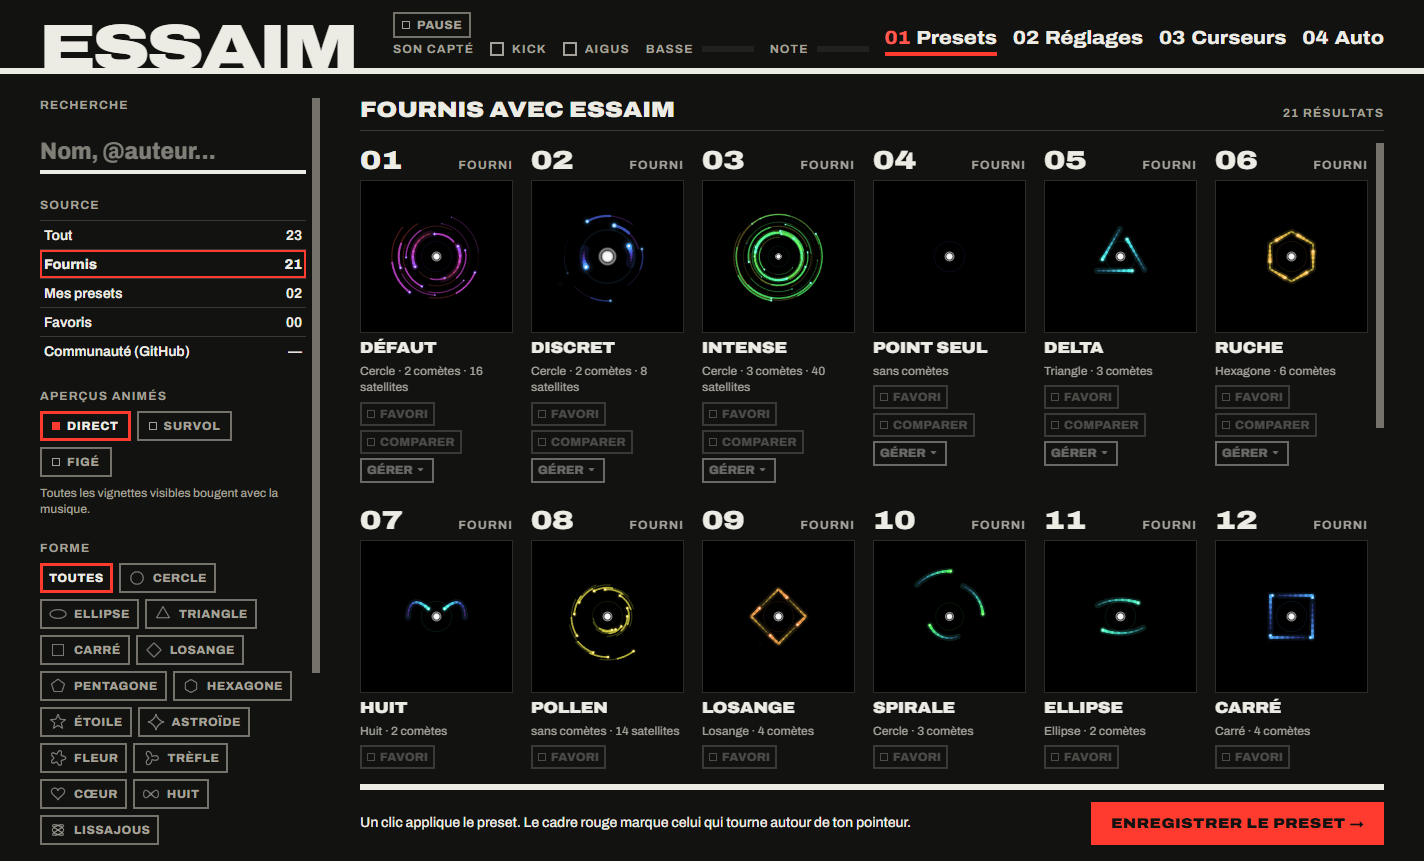
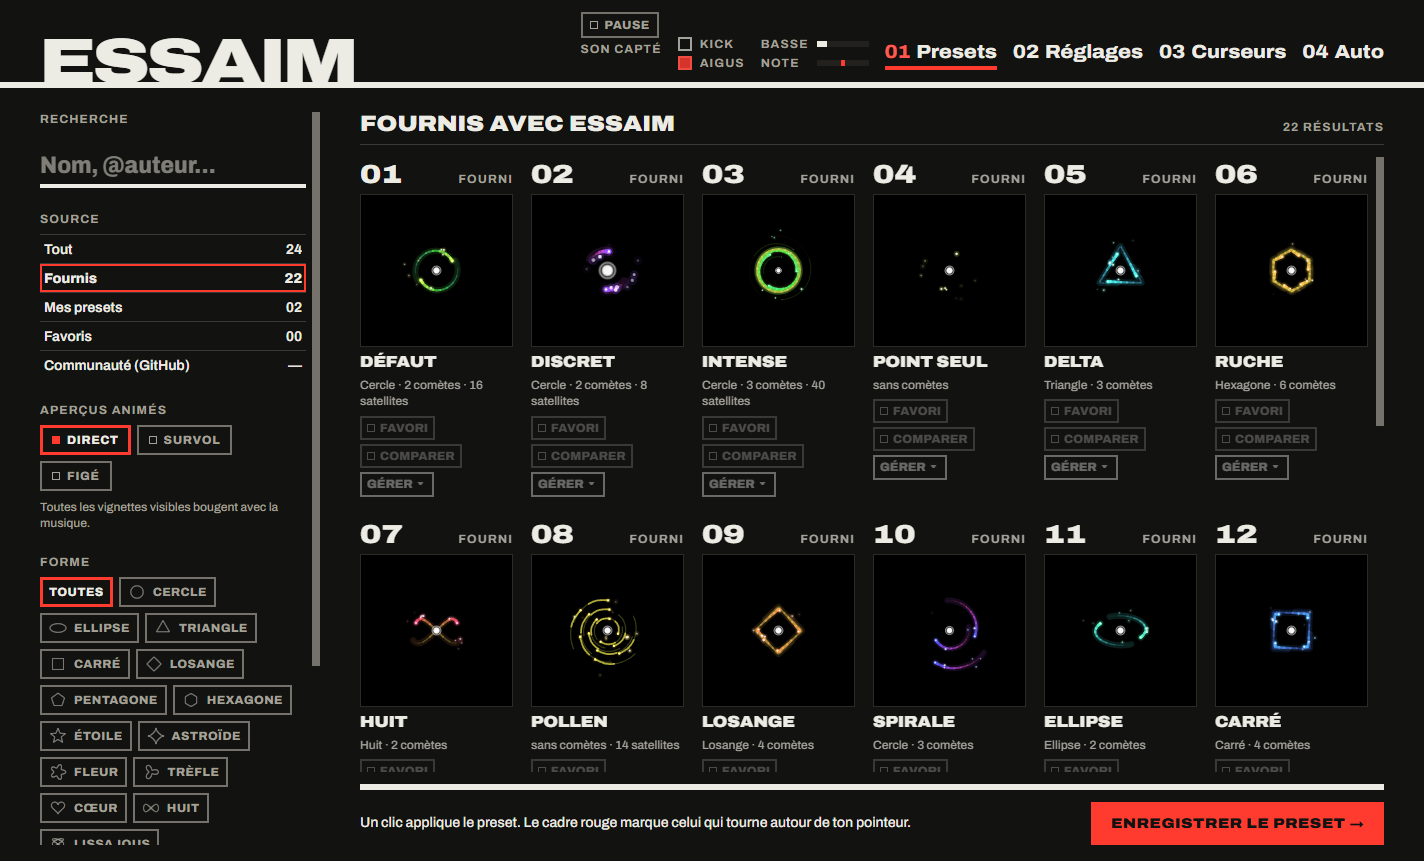
Docs : modulations, sous-onglets des réglages, captures refaites
Claude-Session: https://claude.ai/code/session_012AUsZooZ3YvAUNHYm4s6z2

diff --git a/README.md b/README.md
@@ -35,9 +35,10 @@ cymbales font jaillir des étincelles, et au drop, tout explose.
   dessine seulement autour, dans un calque transparent aux clics.
 - **Léger.** Dessiné par la carte graphique : 0,31 ms de calcul par image au banc d'essai, environ
   3 % d'un cœur du processeur en usage. Il s'endort quand un jeu ou une vidéo passe en plein écran.
-- **À ta façon.** 14 formes de trajet ou le tien, dessiné à la main ; 21 presets fournis, animés en
-  direct ; des règles « si l'artiste est… alors tel preset » ; chaque réglage appliqué tout de
-  suite, avec son coût affiché.
+- **À ta façon.** 14 formes de trajet ou le tien, dessiné à la main ; 22 presets fournis, animés en
+  direct ; des modulations pour brancher n'importe quel élément du son sur la rotation, la vitesse,
+  le rayon, la taille ou la teinte ; des règles « si l'artiste est… alors tel preset » ; chaque
+  réglage appliqué tout de suite, avec son coût affiché.
 
 ## Fonctions
 
@@ -76,12 +77,13 @@ dans OBS ; elle suit ta musique comme l'essaim du pointeur.</td>
 | | |
 |---|---|
 | 🥁 **Kick** | Inverse le sens de rotation, ajoute des satellites, éclat sous le pointeur |
-| 🔊 **Basse** | Accélère la rotation ; plus la note est grave, plus les orbites s'éloignent |
+| 🔊 **Basse** | Accélère la rotation ; plus la note est grave, plus les orbites s'éloignent (deux modulations de base, à régler ou retirer) |
 | ✨ **Aigus** | Charleston et cymbales font jaillir des étincelles |
 | 🟦 **Caisse claire** | Un carré lumineux s'ouvre sous le pointeur sur chaque caisse claire ou clap |
 | 🚀 **Montée et drop** | L'essaim se resserre et accélère pendant la montée, puis explose au drop |
 | ⏱ **Tempo** | L'essaim continue de pulser pendant les breaks sans grosse caisse ; en option, les têtes pulsent sur les contretemps |
 | 🎧 **Stéréo** | En option, l'essaim penche vers le côté qui joue le plus fort |
+| 🎛 **Modulations** | Branche un élément du son (basse, note grave ou aiguë, kick, caisse claire, charleston, montée, drop, stéréo, tempo) sur la rotation du trajet, la vitesse, le rayon, la taille ou la teinte, des comètes, des satellites ou des deux : le trajet qui s'emballe au drop, l'orbite qui s'ouvre sur les graves… |
 | 🎵 **Morceau en cours** | Couleur de la pochette, rafale au changement de piste, titre dans l'infobulle et les réglages |
 
 ### La souris et l'écran
@@ -114,20 +116,22 @@ Toutes les fonctions en détail : [docs/guide.md](docs/guide.md).
 
 ## La fenêtre des réglages
 
-**Les presets.** Une grille de 21 presets fournis (un par forme, et quelques autres), chacun animé
+**Les presets.** Une grille de 22 presets fournis (un par forme, et quelques autres), chacun animé
 en direct avec ta musique : un clic l'applique. Enregistre les tiens, compare-en deux côte à côte,
 filtre par forme.
 
-<img src="docs/images/presets.png" alt="Onglet Presets : les 21 presets fournis, animés" width="100%">
+<img src="docs/images/presets.png" alt="Onglet Presets : les 22 presets fournis, animés" width="100%">
 
 <table>
 <tr>
-<td width="50%" valign="top"><img src="docs/images/reglages.png" alt="Onglet Réglages : aperçu en grand, formes, glissières"></td>
+<td width="50%" valign="top"><img src="docs/images/reglages.png" alt="Onglet Réglages : aperçu en grand, un sous-onglet par effet, ici les modulations"></td>
 <td width="50%" valign="top"><img src="docs/images/curseurs.png" alt="Onglet Curseurs : jeux de curseurs installés"></td>
 </tr>
 <tr>
-<td valign="top"><b>Réglages</b> appliqués en direct sur un grand aperçu. À côté de chacun, une
-note de 1 à 10 dit ce qu'il coûte en puissance ; la puissance utilisée est mesurée en direct.</td>
+<td valign="top"><b>Réglages</b> rangés par effet (orbite, comètes, satellites, couleur, son,
+musique, souris, fissures, bordure, spectre, modulations), chacun avec ses options de base et
+avancées, appliqués en direct sur un grand aperçu. À côté de chacun, dix cases disent ce qu'il
+coûte en puissance ; la puissance utilisée est mesurée en direct.</td>
 <td valign="top"><b>Curseurs</b> : tes jeux de curseurs Windows, animés, mis en place d'un clic.
 Un preset peut emporter le sien.</td>
 </tr>
@@ -143,7 +147,7 @@ l'heure, et les raccourcis clavier.
 installer, pas de droits administrateur : la fenêtre des réglages s'ouvre au premier lancement.
 
 - Range d'abord le fichier là où il restera (par exemple `%LOCALAPPDATA%\Programs\Essaim`),
-  puis coche *Démarrer Essaim avec Windows* dans les réglages avancés.
+  puis coche *Démarrer Essaim avec Windows* dans *Réglages › Cet ordinateur*.
 - Windows peut afficher « Windows a protégé votre ordinateur » : l'exécutable n'est pas signé.
   *Informations complémentaires* → *Exécuter quand même*.
 - Le curseur **Dotter** est à côté : `curseur-Dotter.zip` (voir l'étape 3 plus bas).
@@ -202,14 +206,14 @@ se connecte qu'à GitHub, pour la bibliothèque de presets et les mises à jour.
 <summary><b>L'essaim ne réagit pas au son.</b></summary>
 
 Essaim écoute la sortie audio *par défaut* de Windows. Si ta musique passe par une autre sortie,
-choisis-la dans *Réglages › Avancé › Son › Sortie son écoutée*. L'en-tête de la fenêtre des réglages montre ce qu'Essaim entend (kick, aigus,
+choisis-la dans *Réglages › Kick et son › Avancé › Sortie son écoutée*. L'en-tête de la fenêtre des réglages montre ce qu'Essaim entend (kick, aigus,
 basse, note).
 </details>
 
 <details>
 <summary><b>Les éclats me gênent (photosensibilité).</b></summary>
 
-*Réglages › Avancé › Sans flashs* : *Toujours*. Les éclats du kick sont adoucis et limités à trois
+*Réglages › Cet ordinateur › Sans flashs* : *Toujours*. Les éclats du kick sont adoucis et limités à trois
 par seconde, sans halo blanc, et la bordure de la fenêtre ne clignote plus. Par défaut (*Comme
 Windows*), ce mode s'active tout seul quand les effets d'animation sont coupés dans Windows
 (*Accessibilité › Effets visuels*).
@@ -219,7 +223,7 @@ Windows*), ce mode s'active tout seul quand les effets d'animation sont coupés 
 <summary><b>Comment montrer l'essaim dans OBS ?</b></summary>
 
 Icône d'Essaim → *Fenêtre pour le stream* (ou `essaim.exe --stream`). L'essaim y danse au centre,
-sur un fond uni (vert par défaut, au choix dans les réglages avancés). Dans OBS : *Capture de
+sur un fond uni (vert par défaut, au choix dans *Réglages › Cet ordinateur*). Dans OBS : *Capture de
 fenêtre* sur « Essaim — stream », puis un filtre *Incrustation chromatique* pour retirer le fond.
 Elle reste capturable même si l'essaim autour du pointeur est masqué des captures.
 </details>

diff --git a/README.en.md b/README.en.md
@@ -37,9 +37,9 @@ throw sparks, and on the drop, everything bursts.
   around it, in a click-through layer.
 - **Light.** Drawn by the GPU: 0.31 ms per frame on the benchmark, about 3% of one CPU core in
   use. It goes to sleep when a game or video goes fullscreen.
-- **Your way.** 14 path shapes, or your own drawn by hand; 21 bundled presets, animated live;
-  "if the artist is… then this preset" rules; every setting applied instantly, with its cost
-  shown.
+- **Your way.** 14 path shapes, or your own drawn by hand; 22 bundled presets, animated live;
+  modulations to wire any part of the sound to the rotation, speed, radius, size or hue; "if the
+  artist is… then this preset" rules; every setting applied instantly, with its cost shown.
 
 ## Features
 
@@ -77,12 +77,13 @@ in OBS; it follows your music like the swarm around the pointer.</td>
 | | |
 |---|---|
 | 🥁 **Kick** | Reverses the rotation, adds satellites, flash under the pointer |
-| 🔊 **Bass** | Speeds up the rotation; the lower the note, the wider the orbits |
+| 🔊 **Bass** | Speeds up the rotation; the lower the note, the wider the orbits (two default modulations, to tune or remove) |
 | ✨ **Highs** | Hi-hats and cymbals throw sparks |
 | 🟦 **Snare** | A glowing square opens under the pointer on every snare or clap |
 | 🚀 **Build-up and drop** | The swarm tightens and speeds up during the build-up, then bursts on the drop |
 | ⏱ **Tempo** | The swarm keeps pulsing through breaks without a kick drum; optionally, the heads pulse on the off-beats |
 | 🎧 **Stereo** | Optionally, the swarm leans towards the louder side |
+| 🎛 **Modulations** | Wire a part of the sound (bass, low or high note, kick, snare, hi-hat, build-up, drop, stereo, tempo) to the path rotation, speed, radius, size or hue, of the comets, the satellites or both: the path spinning up on the drop, the orbit opening on low notes… |
 | 🎵 **Now playing** | Album-art colour, a burst on track change, title in the tray tooltip and settings |
 
 ### The mouse and the screen
@@ -113,19 +114,21 @@ away, automatic updates (downloaded, verified, applied on restart). The **Dotter
 
 ## The settings window
 
-**Presets.** A grid of 21 bundled presets (one per shape, and a few more), each animated live with
+**Presets.** A grid of 22 bundled presets (one per shape, and a few more), each animated live with
 your music: one click applies it. Save your own, compare two side by side, filter by shape.
 
-<img src="docs/images/presets.png" alt="Presets tab: the 21 bundled presets, animated" width="100%">
+<img src="docs/images/presets.png" alt="Presets tab: the 22 bundled presets, animated" width="100%">
 
 <table>
 <tr>
-<td width="50%" valign="top"><img src="docs/images/reglages.png" alt="Settings tab: large preview, shapes, sliders"></td>
+<td width="50%" valign="top"><img src="docs/images/reglages.png" alt="Settings tab: large preview, one sub-tab per effect, here the modulations"></td>
 <td width="50%" valign="top"><img src="docs/images/curseurs.png" alt="Cursors tab: installed cursor schemes"></td>
 </tr>
 <tr>
-<td valign="top"><b>Settings</b> applied live on a large preview. Next to each one, a 1–10
-score tells its power cost; the power in use is measured live.</td>
+<td valign="top"><b>Settings</b> sorted by effect (orbit, comets, satellites, colour, sound,
+music, mouse, cracks, border, spectrum, modulations), each with its basic and advanced options,
+applied live on a large preview. Next to each one, ten squares tell its power cost; the power in
+use is measured live.</td>
 <td valign="top"><b>Cursors</b>: your Windows cursor schemes, animated, applied in one click. A
 preset can carry its own.</td>
 </tr>
@@ -140,7 +143,7 @@ preset can carry its own.</td>
 install, no administrator rights: the settings window opens on first launch.
 
 - First put the file where it will stay (for example `%LOCALAPPDATA%\Programs\Essaim`), then
-  tick *Démarrer Essaim avec Windows* in the advanced settings.
+  tick *Démarrer Essaim avec Windows* in *Réglages › Cet ordinateur*.
 - Windows may show « Windows protected your PC »: the executable isn't signed. *More info* →
   *Run anyway*.
 - The **Dotter** cursor sits next to it: `curseur-Dotter.zip` (see step 3 below).
@@ -197,13 +200,13 @@ for the preset library and updates.
 <summary><b>The swarm doesn't react to sound.</b></summary>
 
 Essaim listens to Windows' *default* audio output. If your music plays on another output, pick it
-in *Réglages › Avancé › Son › Sortie son écoutée*. The header of the settings window shows what Essaim hears (kick, highs, bass, note).
+in *Réglages › Kick et son › Avancé › Sortie son écoutée*. The header of the settings window shows what Essaim hears (kick, highs, bass, note).
 </details>
 
 <details>
 <summary><b>The flashes bother me (photosensitivity).</b></summary>
 
-*Réglages › Avancé › Sans flashs*: *Toujours*. Kick flashes are softened and limited to three per
+*Réglages › Cet ordinateur › Sans flashs*: *Toujours*. Kick flashes are softened and limited to three per
 second, with no white halo, and the window border no longer blinks. By default (*Comme Windows*),
 this mode turns on by itself when animation effects are off in Windows (*Accessibility › Visual
 effects*).
@@ -213,7 +216,7 @@ effects*).
 <summary><b>How do I show the swarm in OBS?</b></summary>
 
 Tray icon → *Fenêtre pour le stream* (or `essaim.exe --stream`). The swarm dances in the middle,
-on a solid background (green by default, selectable in the advanced settings). In OBS: *Window
+on a solid background (green by default, selectable in *Réglages › Cet ordinateur*). In OBS: *Window
 Capture* on « Essaim — stream », then a *Chroma Key* filter to remove the background. It stays
 capturable even when the swarm around the pointer is hidden from captures.
 </details>

diff --git a/docs/technique.md b/docs/technique.md
@@ -200,6 +200,21 @@ Tout est causal, échantillon par échantillon, décisions toutes les 5 ms.
 - Charte graphique « Essaim » : `ui/style.css` en est la référence (jetons clair/sombre,
   typographie, composants). Une seule police, Archivo (Omnibus-Type, licence SIL OFL 1.1,
   `ui/polices/OFL.txt`).
+- **Modulations** (`modulation.rs`) : `Sources` tient les enveloppes des coups (kick, caisse
+  claire, charleston : 1 au coup, retombée de 7, 8 et 10 par seconde ; drop : 0,9 par seconde) et
+  suit la montée ; `effets` additionne les modulations par cible pour les comètes et pour les
+  satellites (`Effet` : tours/min de rotation et radians/s de vitesse ajoutés, facteurs du rayon
+  et de la taille, degrés de teinte), lissés ~50 ms dans `Swarm::update`. La basse qui accélère
+  et la note grave qui éloigne l'orbite sont les deux modulations par défaut
+  (`config::reactions_de_base`) : `Swarm::update` ne garde, en propre, que la vitesse du trajet,
+  la montée et le contretemps. Les anciennes clés `[orbite] vitesse_basse` et
+  `eloignement_grave` sont converties à la lecture (`config::de_texte`, presets compris) et
+  retirées de `config.toml` au lancement (`config::migrer_fichier`) ; la page fait de même pour
+  un preset de la communauté (`fusion`). Chaque groupe a sa `Pose` (rotation et rayon au
+  début et à la fin de l'image) : le trajet des comètes et celui des satellites tournent chacun
+  de leur côté (`[orbite] rotation_sur`). Une modulation de la taille élargit la marge de
+  `Swarm::bounds`. L'analyse musicale (caisse claire, montée, drop) tourne aussi quand une
+  modulation l'écoute (`Config::analyse_musicale`).
 - `ui/apercu.js` reproduit `render.rs` jusqu'au détail : ordre de la mise à jour, points
   intermédiaires (`sous_pas`), sillage, dessin des traînées par morceaux de 4 segments.
 - Réglages (`config.rs`) : écritures atomiques (fichier `.tmp` puis renommage) sous un verrou
